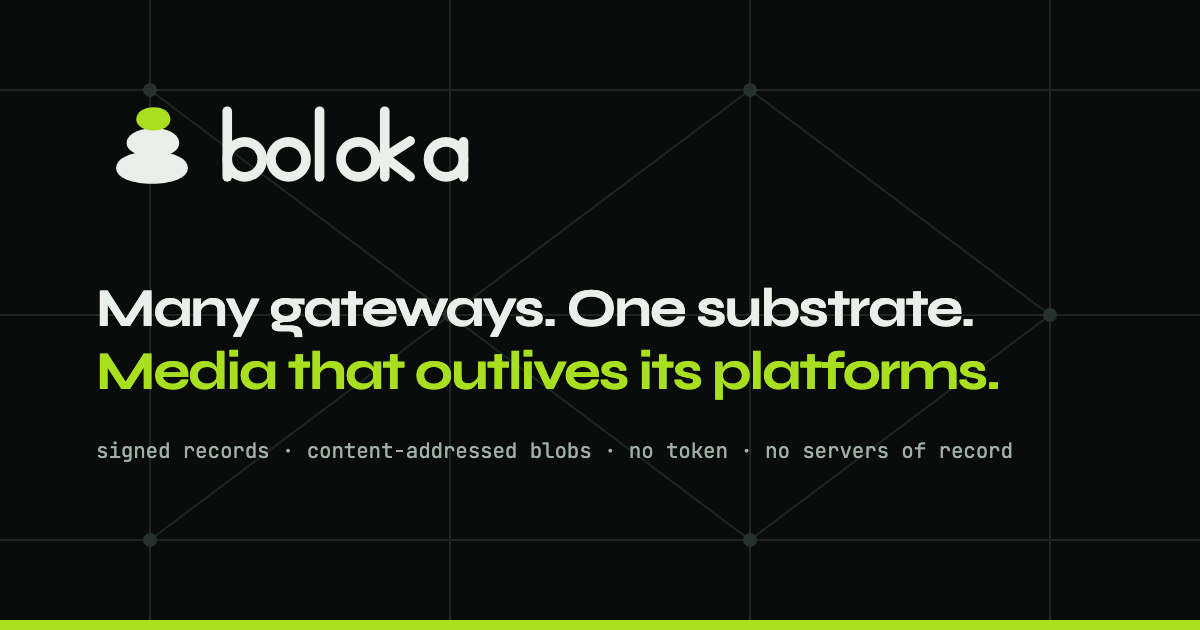
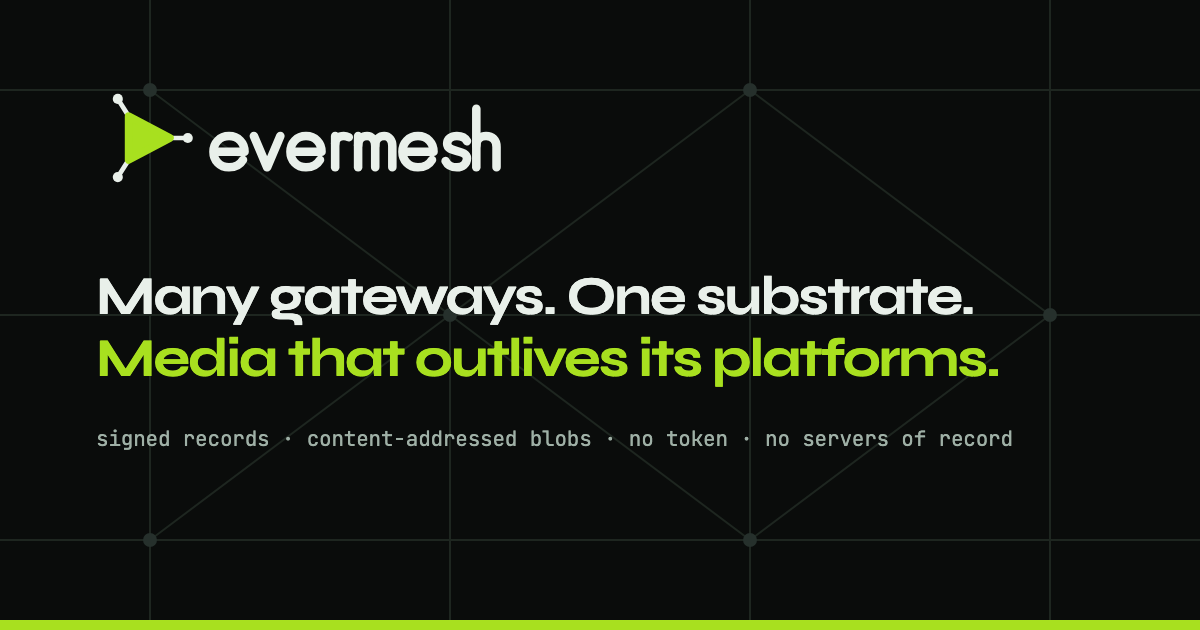
site: keep diagram type above the 12px floor, real mobile docs drawer, regenerate the stale OG card
Two model-fig illustrations plus the architecture diagram were authored
with labels as small as 12px at their native ~1000px width; in the
"how it works"/"the model" 2-up grid or on a narrow viewport they'd have
scaled down below the 12px floor. They now sit in .diagram-scroll/
.model-fig-scroll containers (overflow-x: auto, min-width pinned to the
diagram's native width) so they scroll instead of shrinking, and the
three "model" illustrations moved from a 2-column grid to a single
top-to-bottom stack so desktop doesn't trigger that scroll unnecessarily
either.

site/docs.html's sidebar previously just went static and stacked above
the content below 940px — technically not squashed, but a reader had to
scroll past all 19 chapters to reach a page's own text. It's now a real
collapsed-by-default drawer (a plain toggle button + class, not a
<details> — Chromium's UA stylesheet for collapsed <details> content
turned out not to yield to an author override here) that opens on tap
and closes itself again once a chapter is picked; unaffected at wider
viewports where the toggle stays hidden and the nav is the plain sticky
sidebar it always was.

Also: found and fixed a real bug while auditing OG images — assets/
og-image.png and site/assets/og-image.png were still rendering the
project's old "boloka" wordmark (tools/brand/og-card.html itself already
referenced the current evermesh lockup; the PNGs just hadn't been
[…]

diff --git a/site/style.css b/site/style.css
@@ -781,9 +781,17 @@ h3 {
   padding: 22px;
 }
 
+/* the diagram is authored at 1000px wide with type as small as 15px; below
+   that width scaling it down would push type under the 12px floor, so it
+   scrolls horizontally instead of shrinking, like a wide table would */
+.diagram-scroll {
+  overflow-x: auto;
+}
+
 .diagram img {
   display: block;
   width: 100%;
+  min-width: 1000px;
   border-radius: var(--bo-radius-sm);
 }
 
@@ -793,9 +801,16 @@ h3 {
    the page besides the hero that moves), and offline verification. Same
    corner-frame card language as the architecture diagram above. */
 
+/* One column, not a 2-up grid: these three diagrams are authored at
+   900-1000px wide with type as small as 12px. A 2-column grid at the
+   section's own 1180px wrap would give each card ~575px — already below
+   the width these need to keep their smallest labels at or above the
+   12px floor — so they read top-to-bottom instead, each at full wrap
+   width, and only actually need to scroll (see .model-fig-scroll below)
+   on viewports narrower than they are. */
 .model-figures {
-  display: grid;
-  grid-template-columns: 1fr 1fr;
+  display: flex;
+  flex-direction: column;
   gap: 28px;
 }
 
@@ -803,18 +818,6 @@ h3 {
   margin: 0;
   padding: 22px;
   background-color: var(--bo-surface);
-}
-
-.model-fig-wide {
-  grid-column: 1 / -1;
-}
-
-.model-fig img,
-.model-fig svg {
-  display: block;
-  width: 100%;
-  height: auto;
-  border-radius: var(--bo-radius-sm);
 }
 
 .model-fig figcaption {
@@ -829,12 +832,6 @@ h3 {
   font-weight: 600;
 }
 
-@media (max-width: 860px) {
-  .model-figures {
-    grid-template-columns: 1fr;
-  }
-}
-
 .model-fig-label {
   margin: 0 0 14px;
   font-size: 12px;
@@ -843,12 +840,30 @@ h3 {
   color: var(--bo-faint);
 }
 
+/* Scrolls rather than shrinks below native size — same reasoning as
+   .diagram-scroll above. illustration-record.svg and
+   illustration-offline.svg are authored at 1000px wide; the inline
+   propagation lattice at 900px. min-width is set per-child below so
+   neither ever renders its smallest label under 12px. */
+.model-fig-scroll {
+  overflow-x: auto;
+}
+
+.model-fig-scroll img {
+  display: block;
+  width: 100%;
+  min-width: 1000px;
+  height: auto;
+  border-radius: var(--bo-radius-sm);
+}
+
 /* the propagation diagram: same lattice/signal technique as the hero,
    plus two gateways that "light up" roughly when the travelling packet
    would reach them, and a third, dimmer, dashed path a gateway declined
    to subscribe to — selection is part of the picture, not just carriage */
 .model-lattice {
   width: 100%;
+  min-width: 900px;
   height: auto;
   display: block;
 }
@@ -1400,10 +1415,56 @@ table.status th.num {
   overflow-y: auto;
 }
 
+/* ---------------------------------------------------------- docs drawer
+   Wide viewports: the toggle button is hidden and .docs-nav is always
+   the plain sticky sidebar above — the "open" class .docs-nav-toggle
+   adds/removes is simply irrelevant at this width.
+   Narrow viewports: a real off-canvas drawer, collapsed by default, so a
+   reader lands on content first rather than scrolling past all 19
+   chapters to reach it. Keyboard-operable for free (a plain <button>). */
+.docs-nav-toggle {
+  display: none;
+}
+
 @media (max-width: 940px) {
+  .docs-nav-toggle {
+    display: flex;
+    width: 100%;
+    align-items: center;
+    justify-content: space-between;
+    gap: 10px;
+    cursor: pointer;
+    padding: 14px 18px;
+    margin-bottom: 4px;
+    border: 1px solid var(--bo-border);
+    border-radius: var(--bo-radius);
+    background: var(--bo-surface);
+    color: var(--bo-fg);
+    font-family: var(--bo-font-display);
+    font-weight: 700;
+    font-size: 16px;
+  }
+
+  .docs-nav-toggle-chevron::before {
+    content: "\25BE";
+    color: var(--bo-signal);
+    display: inline-block;
+    transition: transform 0.15s ease;
+  }
+
+  .docs-nav-toggle[aria-expanded="true"] .docs-nav-toggle-chevron::before {
+    transform: rotate(180deg);
+  }
+
   .docs-nav {
+    display: none;
     position: static;
-    max-height: none;
+    max-height: 55vh;
+  }
+
+  .docs-nav.open {
+    display: block;
+    margin-bottom: 20px;
   }
 }
 

diff --git a/site/index.html b/site/index.html
@@ -300,7 +300,9 @@
         </div>
 
         <figure class="diagram corner-frame">
-          <img src="assets/architecture.svg" alt="Creators publish signed manifests into a substrate of records and content-addressed blobs; independent gateways index and serve their own selection of it; viewers and nodes verify signatures and hashes and re-seed the blobs." width="1000" height="380">
+          <div class="diagram-scroll">
+            <img src="assets/architecture.svg" alt="Creators publish signed manifests into a substrate of records and content-addressed blobs; independent gateways index and serve their own selection of it; viewers and nodes verify signatures and hashes and re-seed the blobs." width="1000" height="380">
+          </div>
         </figure>
       </div>
     </div>
@@ -323,12 +325,15 @@
 
       <div class="section-body model-figures">
         <figure class="model-fig corner-frame">
-          <img src="assets/illustration-record.svg" width="1000" height="320" alt="A signed record — canonical CBOR with an Ed25519 signature and a deterministic id — carries a reference to a blob, addressed by the root of its BLAKE3 chunk tree rather than by a URL.">
+          <div class="model-fig-scroll">
+            <img src="assets/illustration-record.svg" width="1000" height="320" alt="A signed record — canonical CBOR with an Ed25519 signature and a deterministic id — carries a reference to a blob, addressed by the root of its BLAKE3 chunk tree rather than by a URL.">
+          </div>
           <figcaption><b>Self-certifying, not self-hosted.</b> A record proves itself from its own bytes; a blob proves itself from its own hash. Neither one needs to ask a server whether it's real.</figcaption>
         </figure>
 
         <figure class="model-fig corner-frame model-fig-wide">
           <p class="model-fig-label mono">A record propagating across gateways — animated, stops with prefers-reduced-motion</p>
+          <div class="model-fig-scroll">
           <svg class="model-lattice" viewBox="0 0 900 250" role="img" aria-label="Diagram: a creator's record passes through a relay, then to independent gateways. Two gateways choose to index it and light up on arrival; a third declines and never receives the animated packet." focusable="false">
             <g class="edge">
               <path d="M76,125 H236"/>
@@ -353,11 +358,14 @@
             <text x="600" y="130" text-anchor="middle" class="model-lattice-gwlabel">Gateway B &mdash; indexes it</text>
             <text x="600" y="200" text-anchor="middle" class="model-lattice-gwlabel declined">Gateway C &mdash; declines it</text>
           </svg>
+          </div>
           <figcaption><b>Selection happens at the edge.</b> The relay forwards to anyone subscribed; nothing requires a gateway to index everything it sees. A record two gateways carry and one doesn't is not an error — it's the design.</figcaption>
         </figure>
 
         <figure class="model-fig corner-frame">
-          <img src="assets/illustration-offline.svg" width="1000" height="320" alt="Even with no path to the gateway, the desktop client verifies a pinned manifest's signature and re-hashes its cached blob locally before playing it.">
+          <div class="model-fig-scroll">
+            <img src="assets/illustration-offline.svg" width="1000" height="320" alt="Even with no path to the gateway, the desktop client verifies a pinned manifest's signature and re-hashes its cached blob locally before playing it.">
+          </div>
           <figcaption><b>Verification travels with the file.</b> The desktop client checks a manifest's signature and re-derives a pinned blob's hash on its own, in Rust, before a frame plays — the gateway that served it doesn't need to be reachable, or even to still exist.</figcaption>
         </figure>
       </div>

diff --git a/site/docs.html b/site/docs.html
@@ -55,6 +55,10 @@
 </header>
 
 <div class="wrap docs-shell">
+  <button type="button" class="docs-nav-toggle" id="docs-nav-toggle" aria-expanded="false" aria-controls="docs-nav">
+    <span>Docs menu</span>
+    <span class="docs-nav-toggle-chevron" aria-hidden="true"></span>
+  </button>
   <nav class="docs-nav" id="docs-nav" aria-label="Documents"></nav>
   <main class="docs-main">
     <p class="docs-crumb" id="crumb"></p>
@@ -148,6 +152,23 @@ for (const group of GROUPS) {
     nav.append(a);
   }
 }
+
+// Mobile drawer: .docs-nav-toggle/.docs-nav-toggle's CSS only shows this
+// button under the 940px breakpoint (style.css), where .docs-nav itself
+// starts collapsed. Picking a chapter also closes it, same as any
+// off-canvas nav, so the reader lands on content, not on the menu they
+// just used. At wider viewports the toggle is hidden and .docs-nav is
+// always the plain sticky sidebar, unaffected by the "open" class.
+const navToggle = document.getElementById("docs-nav-toggle");
+navToggle.addEventListener("click", () => {
+  const open = nav.classList.toggle("open");
+  navToggle.setAttribute("aria-expanded", String(open));
+});
+nav.addEventListener("click", (e) => {
+  if (e.target.tagName !== "A") return;
+  nav.classList.remove("open");
+  navToggle.setAttribute("aria-expanded", "false");
+});
 
 if (window.marked && marked.setOptions) marked.setOptions({ gfm: true, breaks: false });
 
